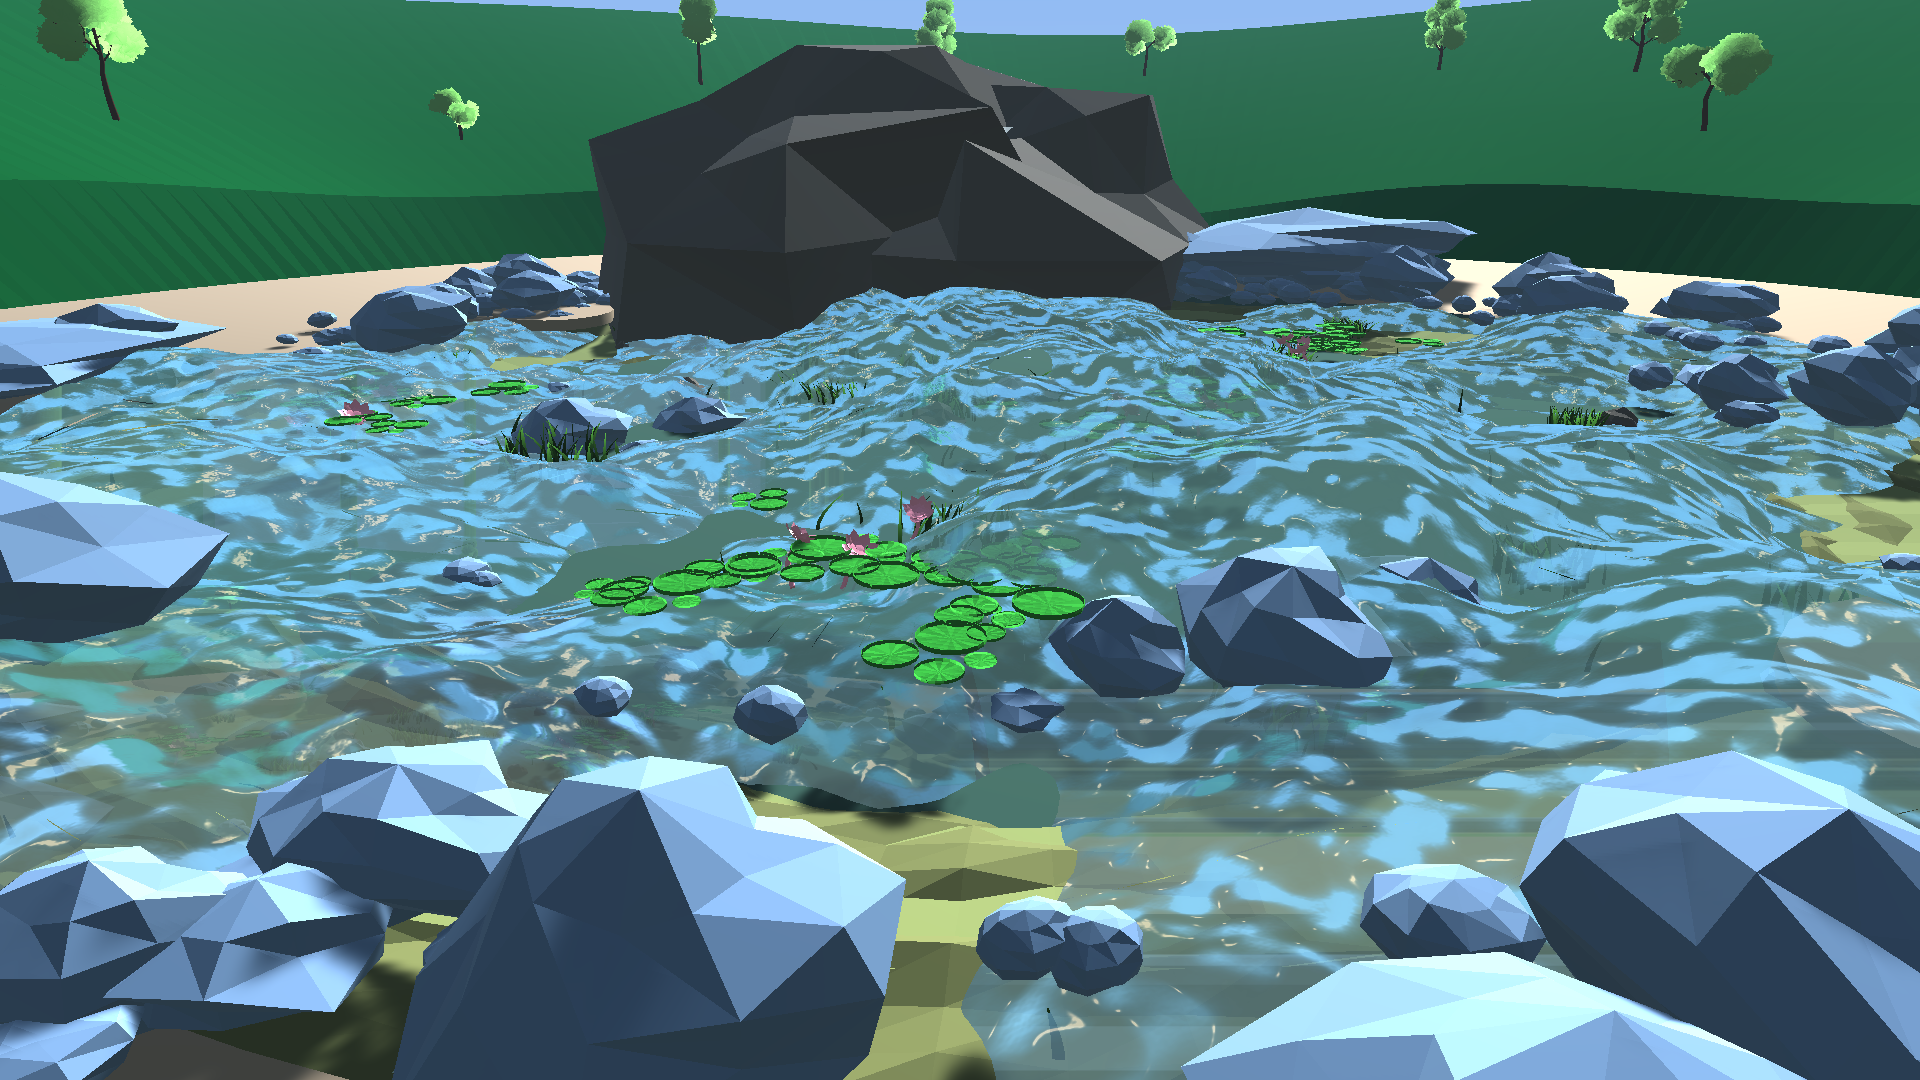
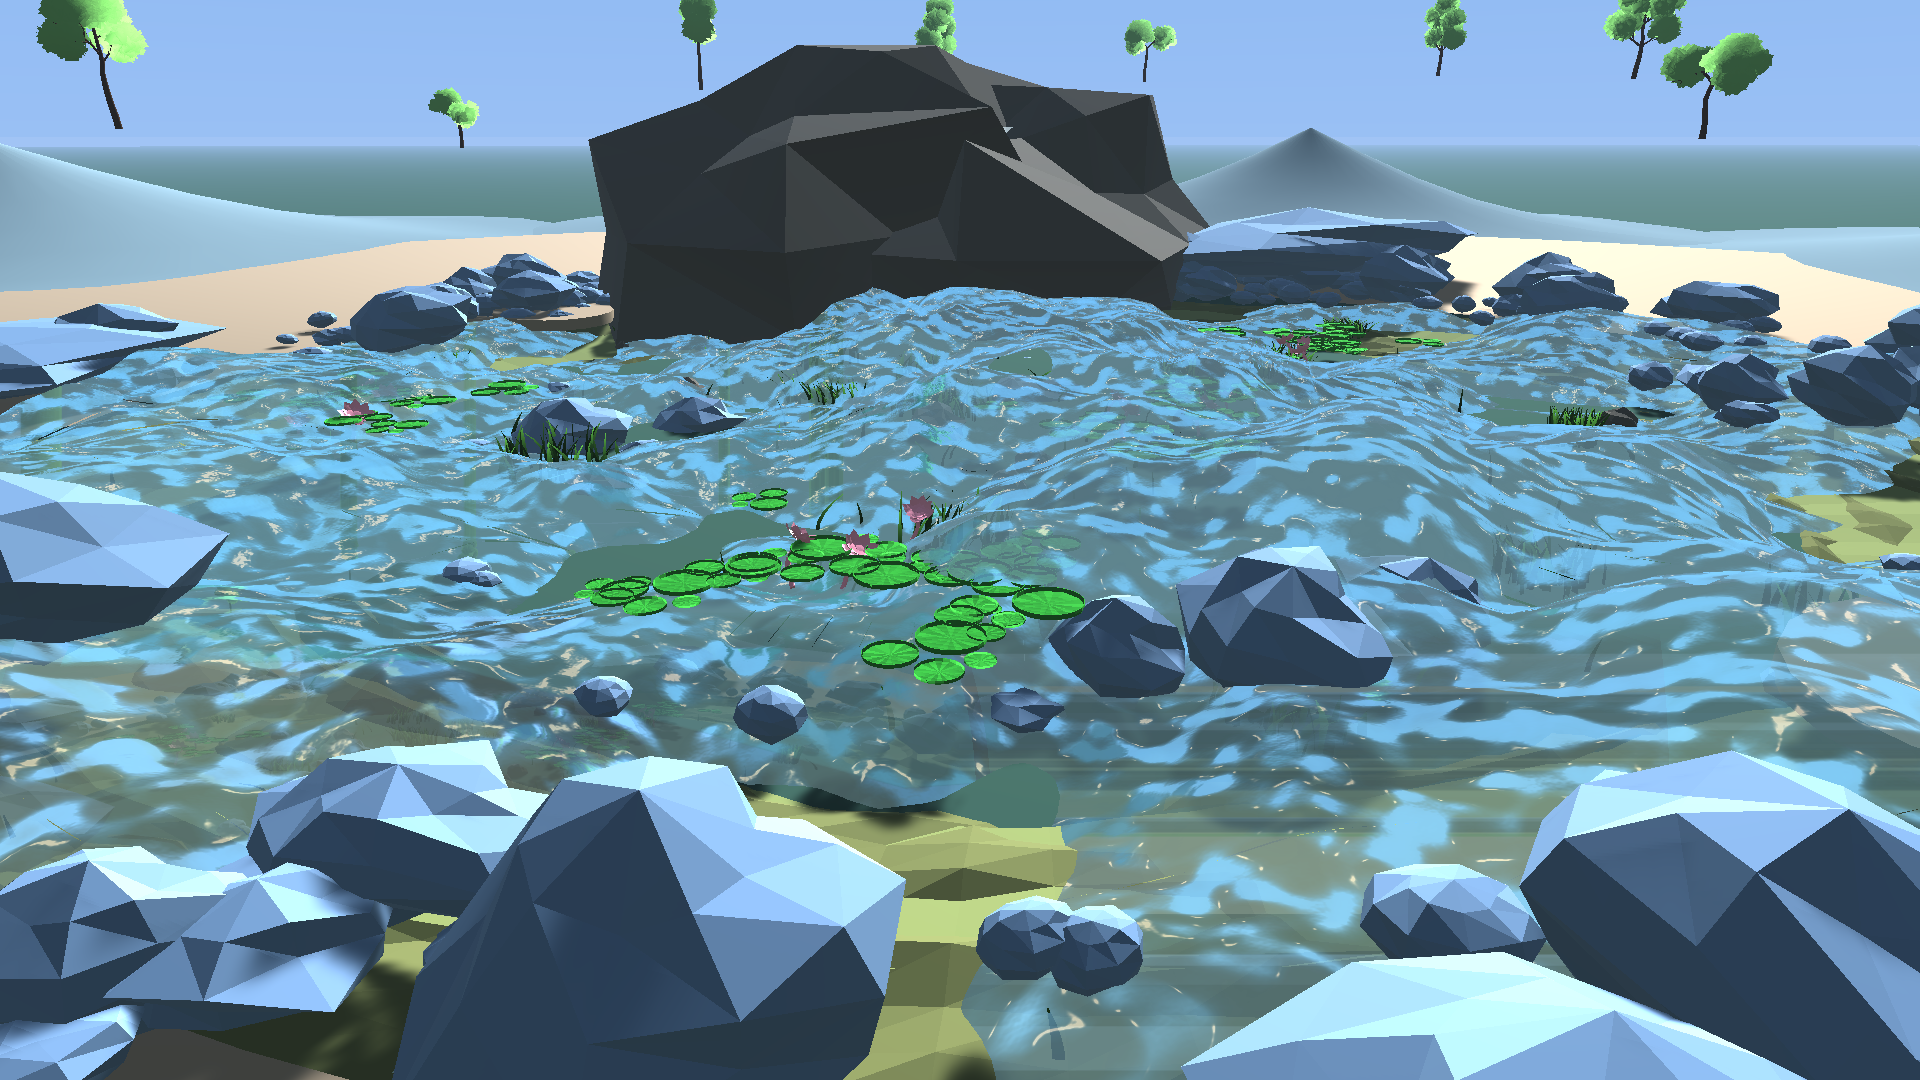
fix(R68): Main 藏掉假绿墙 GreenWall => 蓝天+远山+沙滩, 背景立刻自然. ①R64 屏幕拾取在顶部区域命中 GreenWall(材质 GreenWall_Distant) 与 DistantHill_01~06 ②隐藏 GreenWall 后画面: 原平绿墙消失, 露出真实天空渐变与远山丘陵 ③Main 亮度 104.8->? 且视觉明显更自然; 场景已保存, 菜单 R67/91 隐藏 / 91b 显示 可逆

diff --git a/Assets/Editor/R67Setup.cs b/Assets/Editor/R67Setup.cs
@@ -19,6 +19,21 @@ namespace WaterProject.EditorTools
         static void P(string s)
             => File.AppendAllText(Path.Combine(Application.dataPath, "../Logs/water_probe.txt"), s);
 
+        static void Toggle(string name, bool on, string tag)
+        {
+            var go = GameObject.Find(name);
+            var r = go != null ? go.GetComponent<Renderer>() : null;
+            if (r == null) { P($"R67/{tag} 找不到 {name}\n"); return; }
+            r.enabled = on;
+            EditorUtility.SetDirty(r);
+            P($"R67/{tag} {name}.renderer = {on}\n");
+        }
+
+        [MenuItem("Tools/R67/91 隐藏 GreenWall")]
+        public static void HideWall() => Toggle("GreenWall", false, "91");
+
+        [MenuItem("Tools/R67/91b 显示 GreenWall")]
+        public static void ShowWall() => Toggle("GreenWall", true, "91b");
         [MenuItem("Tools/R67/90 Main 地面放大 ×4(消除硬地平线)")]
         public static void ScaleGround()
         {

diff --git a/Assets/Editor/R64Setup.cs b/Assets/Editor/R64Setup.cs
@@ -22,11 +22,12 @@ namespace WaterProject.EditorTools
         // 归一化屏幕点（0~1，左下原点）。默认取"平板"所在的几个点。
         static readonly Vector2[] Points =
         {
-            new Vector2(0.20f, 0.60f),
-            new Vector2(0.40f, 0.60f),
-            new Vector2(0.60f, 0.60f),
-            new Vector2(0.40f, 0.52f),
-            new Vector2(0.40f, 0.45f),
+            new Vector2(0.20f, 0.92f),
+            new Vector2(0.45f, 0.92f),
+            new Vector2(0.70f, 0.92f),
+            new Vector2(0.45f, 0.82f),
+            new Vector2(0.45f, 0.72f),
+            new Vector2(0.45f, 0.60f),
         };
 
         // ── 给 OceanHeadland 换"远景陆地"专用材质（高度渐变 + 斑驳 + 雾）──
